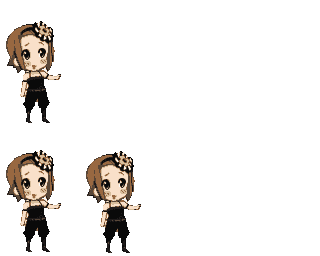
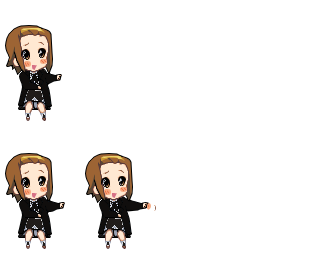
feat: 动画帧改回原版动作（只换衣服颜色），脚本 _recolor_frames.py 可反复打磨（v0.30.8）

Changed region(s): [[0.25, 0.5938, 0.4688, 1.0], [0.0, 0.0625, 0.2188, 0.5], [0.0, 0.5938, 0.2188, 1.0]]

diff --git a/lib/client.js b/lib/client.js
@@ -655,7 +655,7 @@
 			if (!Core) throw new Error("dsh-kon-fee-widget: 缺少 KonFeeCore，请先运行 node scripts/build-client.mjs");
 
 			const ASSET_BASE = "/dsh-kon-fee-widget";
-			const ASSET_REV = "bf9fa2b47a96";
+			const ASSET_REV = "3322832518e6";
 			const TABLE = Core.TABLE;
 			const SNAP_DISTANCE = 24;
 			const PANEL_MS = 8000;
